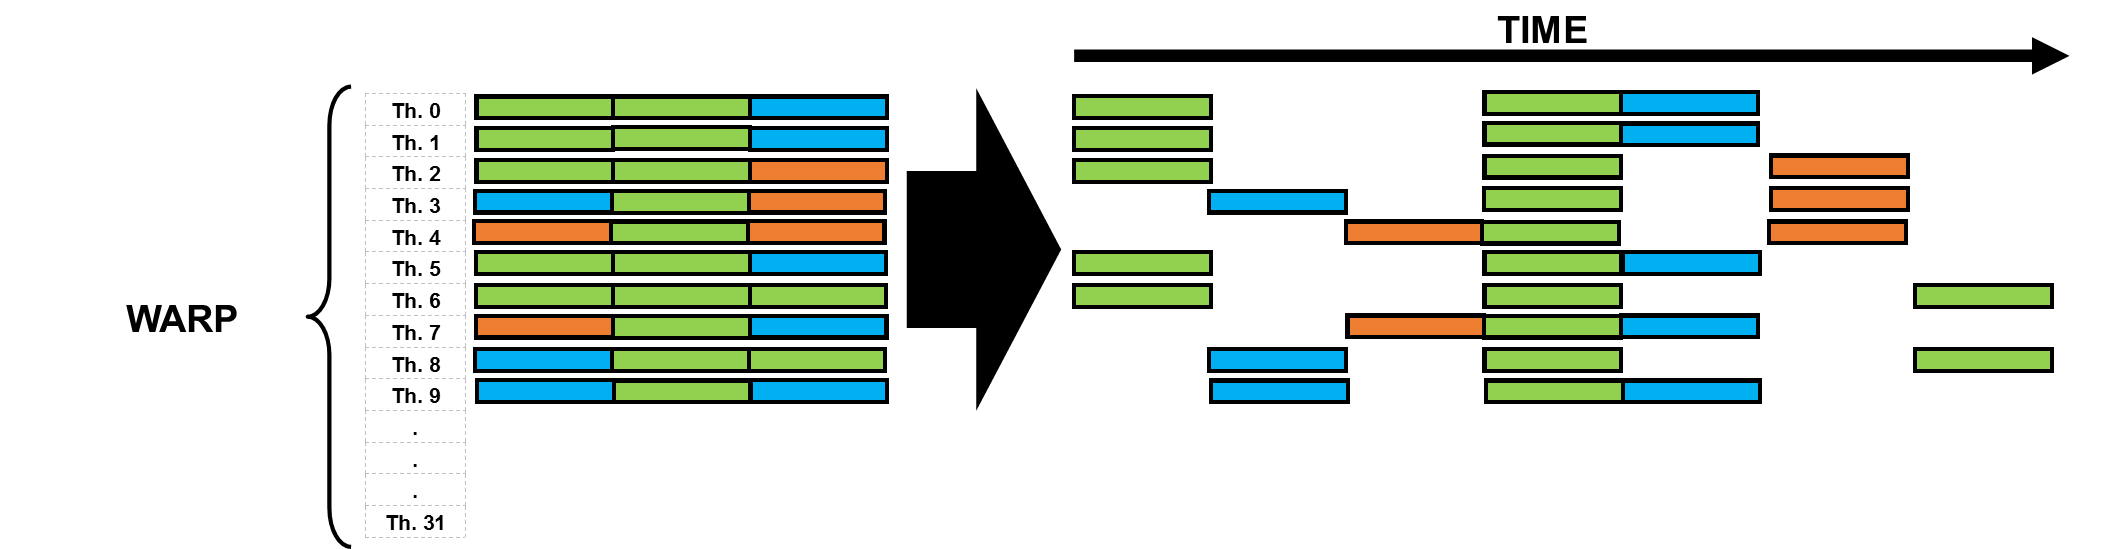
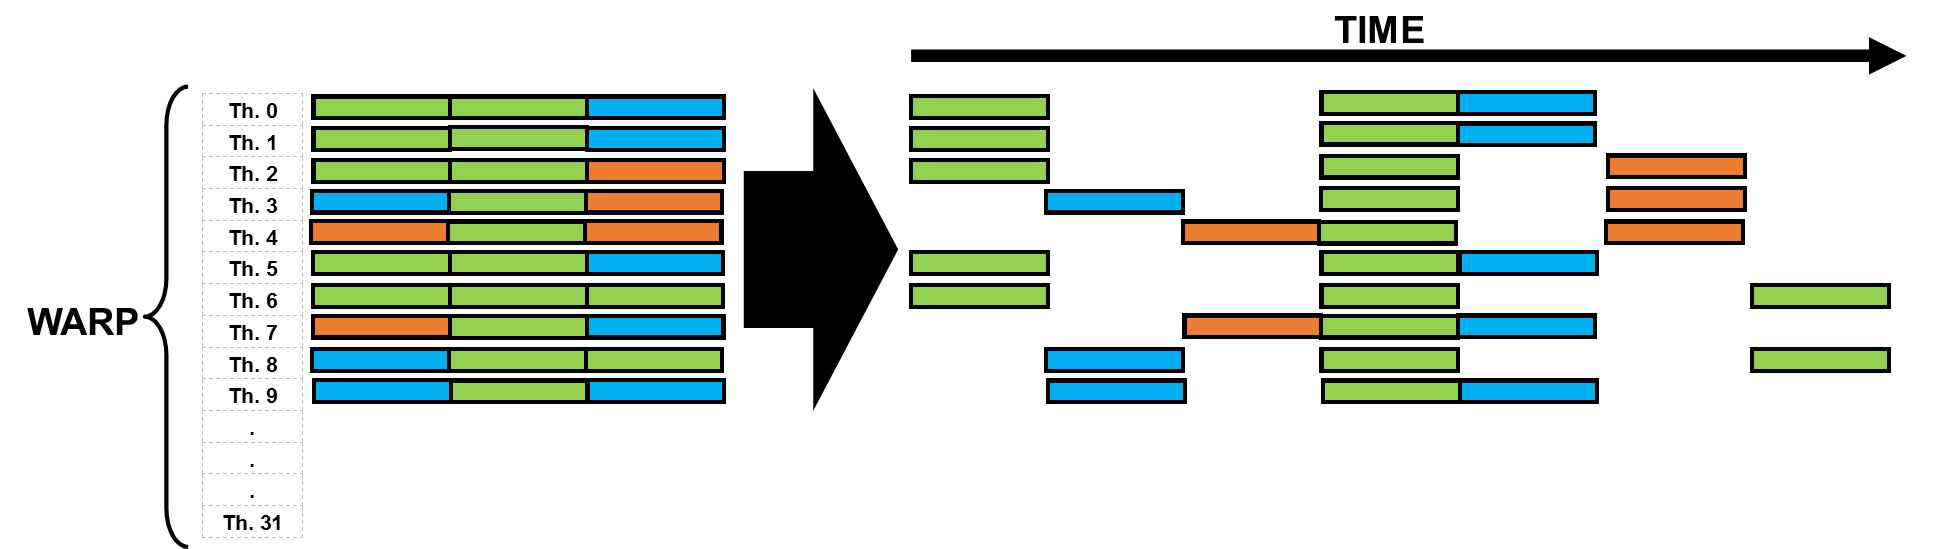
Implementation:GPU implementation - Hybrid Kernel - cluster distrib

diff --git a/Chapters/Implementation.tex b/Chapters/Implementation.tex
@@ -137,9 +137,12 @@ Cache optimization can be achieved dividing the array of sites in blocks that fi
 
 Besides, to perform some computational steps on a block, we need the sites surrounding the block to be present in the cache as well, otherwise the sites on the edge of the block will not be valid. This is because each site needs their four neighbours to complete a single time step evolution. As we try to perform more computational steps on a block, the amount of nodes external to the block increases. These nodes generate a \textit{halo} around a block that must also be read into the cache and updated, but that at later steps become invalid because their own halos are not present. The minimum value of the halo thickness for a single time step evolution is of four sites, since there are four computational steps that couple sites for each direction.
 
-In a non distributed version of the kernels a single CPU performs the time step evolutions as schematized in Fig.%figure scheme
-. The multiple step strategy, combined with the tunable block size that depends on the hardware's cache size, put the algorithm in the family of cache-aware stencil computations~\cite{kamil2006implicit}.
-
+In a non distributed version of the kernels a single CPU performs the time step evolutions as schematized in Fig.~\ref{fig:scheme-iteration}. Blocks of the array in the main memory, with their own halo, are written in the cache memory. A single time step evolution of the block is performed, writing the results back to the cache. The halo is discarded, while the block is written to the second buffer in the main memory (Fig.~\ref{fig:CPU-cache-optimization}). The multiple step strategy, combined with the tunable block size that depends on the hardware's cache size, put the algorithm in the family of cache-aware stencil computations~\cite{kamil2006implicit}.
+\begin{figure}
+   \centering
+   \includegraphics[width=10cm]{Figs/CPU-cache_optimization.png}
+   \caption{Scheme of the CPU cache optimization. A time step evolution is performed, writing blocks of the first array into the cache.} \label{fig:CPU-cache-optimization}
+\end{figure}
 
 %%%%%%%%%%%%%%%%%%%%%%%%%%%%%%%%%%%%%%%%%%%%%%%%%%%%%%%%%%%%%%%%%%%%%%%%%%%%%%%%%%%%%
 \section{GPU kernel}
@@ -159,26 +162,51 @@ GPUs adopt \textit{SIMT (single instruction, multiple thread)} architecture as p
 A warp executes one common instruction at a time, so full efficiency is realized when all 32 threads of a warp agree on their execution path. If threads of a warp diverge via a data-dependent conditional branch, the warp serially executes each branch path taken, disabling threads that are not on that path, and when all paths complete, the threads converge back to the same execution path (Fig.~\ref{fig:warp-instruction}). Branch divergence occurs only within a warp; different warps execute independently regardless of whether they are executing common or disjoint code paths. Consequently, avoiding threads in a warp to branch, the execution achieve better performance.
 \begin{figure}
    \centering
-   \includegraphics[width=13.5cm]{Figs/Warp_instruction.png}
-   \caption{Instance of a warp execusion. The left part of the graph illustrates the instructions to be performed by each thread. Each thread execute three instructions; instructions with the same color are identical. The right part of the graph illustrates how the instruction are executed within by the threads within a warp. Threads, that execute the same instruction, perform the instruction at the same time. Different instructions are performed on different times. In this example threads are not in the same execution path -- there are at least three different paths -- resulting in a inefficient time performance.} \label{fig:warp-instruction}
+   \includegraphics[width=14cm]{Figs/Warp_instruction.png}
+   \caption{Instance of a warp execution. The left part of the graph illustrates the instructions to be performed by each thread. Each thread execute three instructions; instructions with the same color are identical. The right part of the graph illustrates how the instructions are executed by the threads within a warp. Threads, that execute the same instruction, perform the instruction at the same time. Different instructions are performed on different times. In this example threads are not in the same execution path -- there are at least three different paths -- resulting in a inefficient time performance.} \label{fig:warp-instruction}
 \end{figure}
 
 GPU are easily programmed using \textit{CUDA C} an extension of high-level programming language C. CUDA C extends C by allowing the programmer to define C functions (kernels) that are executed N times in parallel by N different \textit{CUDA threads}. Each thread is associated to a 3-component vector, so that they are organized in a 3d structure. Groups of threads are collected in \textit{thread blocks}, whose size is dictated by the programmer. However, there is a limit to the number of threads per block, since all threads of a block are expected to reside on the same processor core and must share the limited memory resources of that core. Blocks are organized into a \textit{grid} of thread blocks, which can be one, two or three dimensional.
 
-GPU's memory is organized in a hierarchy, as it happen for the CPU (Fig.~\ref{fig:GPU-memory-hierarchy}). Closest to the processors there are fast and small registers, in which each thread store a private local memory space. On the next level in the hierarchy, there are \textit{shared memories}. Each thread block can access to a memory space stored on shared memories, which is visible to all the threads of the block. The last level consist in a global memory, accessible by all the threads.
+GPU's memory is organized in a hierarchy, as it happens for the CPU (Fig.~\ref{fig:GPU-memory-hierarchy}). Closest to the processors there are fast and small registers, in which each thread store a private local memory space. On the next level in the hierarchy, there are \textit{shared memories}. Each thread block can access to a memory space stored on shared memories, which is visible to all the threads of the block. The last level consist in the global memory, accessible by all the threads.
 \begin{figure}
    \centering
    \includegraphics[width=10cm]{Figs/GPU_memory_hierarchy.eps}
    \caption{GPU memory hierarchy.} \label{fig:GPU-memory-hierarchy}
 \end{figure}
 
-In the CUDA programming model, the GPU is regarded as a physically separate \textit{device} that operates as a coprocessor to the \textit{host} -- the CPU -- running the C program. This is the case when the kernel execute on a GPU, while the rest of the C program executes on a CPU. The host and the device maintain their own separate memory spaces. Therefore, host and device communicate to share data. In particular, the host can allocate and deallocate space on the device global memory, as well as transfer data between host main memory and device global memory.
+In the CUDA programming model, the GPU is regarded as a physically separate \textit{device} that operates as a coprocessor to the \textit{host} -- the CPU -- running the C program. This is the case when the kernel executes on a GPU, while the rest of the C program executes on a CPU. The host and the device maintain their own separate memory spaces. Therefore, host and device communicate to share data. In particular, the host can allocate and deallocate space on the device global memory, as well as transfer data between host main memory and device global memory.
+%write about heterogeneous programming?
 
 %%%%%%%%%%%%%%%%%%%%%%%%%%%%%%%%%%%%%%%%%%%%%%%%%%%%%%%%%%%%%%%%%%%%%%%%%%%%%%%%%%%%%
 \subsection{GPU implementation}
+The GPU kernel implements the same time step evolution as the CPU kernel (Fig.~\ref{fig:scheme-iteration}). In analogy with the CPU kernel, the  GPU kernel divides the array of sites in blocks, which are written in the shared memories of the multiprocessors, along with their own halo. This strategy benefits from the higher bandwidth of the shared memories, as it happens for the CPU cache. Double buffering is required for data dependency; two arrays in the global memory are allocated, one for reading and one for writing the results. Besides, blocks are executed in parallel, reducing the time of the execution. 
+
+The time step evolution is performed using half number of threads as there are sites in the shared memory. In particular, each thread executes a single coupling operation. Data are partitioned so that each thread process couples of neighbours sites. This is done by arranging the threads in a checkerboard pattern; each thread allocate in its local memory the element corresponding to its position in the checkerboard, keeping it during all the single time step evolution execution. Then, it updates the value of this element and the one in its neighbour in the shared memory, which is determined by the computational step that is currently executed. The single coupling operations are executed in parallel by the threads, but the computational steps may be processed in a serialized manner, due to data dependency. Thus, after each computational step there is a synchronization barrier. 
+%schematic fig
 
 %%%%%%%%%%%%%%%%%%%%%%%%%%%%%%%%%%%%%%%%%%%%%%%%%%%%%%%%%%%%%%%%%%%%%%%%%%%%%%%%%%%%%
 \section{Hybrid kernel}
+During the execution of the GPU kernel, the host's CPU is idle while waiting for the GPU to complete the calculations. This CPU time could be used to perform part of the evolution of the state. Furthermore, GPU have less memory than CPU, limiting the size of the quantum system for which the evolution is computed. A hybrid kernel that uses both CPU and GPU address these two issues.
+
+The algorithm calculates the maximum amount of the array sites that can be computed on the GPU. Then an internal area of the array site, with the appropriate size, is sent to the GPU to be calculated. Since CPU and GPU are in charge of evolving different area of the array sites, GPU requires an halo surrounding the internal area while the CPU needs the halo that correspond to the sites at the edge of the internal area. A single time step evolution is performed, using the CPU and GPU kernels described above for the corresponding areas. After that, the internal halos must be updated by performing a communication between CPU and GPU. The GPU receives the halo from the corresponding part of the mesh evolved by the CPU -- for the CPU is the other way around. 
+
+The kernel also uses a directive-driven parallelism to utilize the power of a multicore system, relying on OpenMP. In the CUDA programming model, each GPU is associated to a single host, which is a single CPU core, hence, in a system with multicore CPU and a single GPU, only one single CPU would be used. For this purpose, the CPU kernel is slightly adjust to use OpenMP, so that the blocks which divides the CPU mesh are processed in parallel using more than one CPU.
 
 %%%%%%%%%%%%%%%%%%%%%%%%%%%%%%%%%%%%%%%%%%%%%%%%%%%%%%%%%%%%%%%%%%%%%%%%%%%%%%%%%%%%%
-\section{Distributed version of the kernels}
+\section{Distributing the workload across a cluster}
+The code is designed to run also in a distributed multi-node system. The whole mesh is partitioned in blocks, called tiles. Each node processes a tile plus its halo. After a single time step evolution the halos between the tiles have to be sent across the nodes. The communication is implemented using MPI. Using a two-dimensional grid of nodes, a tile contains elements of halos belonging to a total of eight other tiles: left, right, top, and bottom neighbours, and also the four diagonal neighbours. To minimize the number of communication requests, a wave pattern is used in the communication: left and right neighbours receive the halo first. This halo has the height of the inner cells of the tile. Then the horizontal halos are sent to the top and bottom neighbours – the width is the full tile width. In this way the appropriate corner elements are propagated to the diagonal neighbours.
+
+The communication is performed asynchronously: each halo is sent at the same time. However, there is a communication barrier between the left-right and top-bottom halo exchange due to data dependency. To achieve better performance, the approach is to overlap communication and evolution as much as possible, evolving the halo first and starting the communication simultaneously to the evolution of the rest of the tile. 
+
+The CPU kernels evolve blocks of the tile at its edge, corresponding to the halos. Then the asynchronous left-right halo exchange and the evolution of the inner part of the tile initiates. Once finished the evolution of the inner part, there is the left-right halo exchange barrier. Consequently, the asynchronous top-bottom halo exchange starts and the top-bottom barrier ensure that it finish before swapping the buffers and continuing with the next time step. In this case, the halo exchange cannot be efficiently overlapped with computation, since, after the time step evolution is finished, there is a communication overhead while the vertical halos are exchanged.
+
+As regard the GPU kernel, the communication is performed from the host memory. This increases the complexity, as asynchronous memory copies from the device and to the device have to be performed. To work with such transfer efficiently, the kernel implements \textit{streams}. A GPU stream is basically a queue of tasks for the GPU to perform: kernel execution, and memory copies from and to the device. Tasks in two different streams can overlap with each other, while tasks on the same stream are performed sequentially. When the host queues a task into a GPU stream, it does not have to wait for the task to be completed by the GPU before continuing with the rest of the algorithm. Two streams are implemented in the kernel: queueing the halo computation and the memory copies between host and device in stream one, and the computation of the inner part of the tile in stream two.
+
+The host start queueing the evolution of the blocks at the edge of the tile, corresponding with the halo, and the halo copy from device to host in stream one. While the GPU is running the first stream, the host queues the evolution of the rest of the blocks in the second stream. Once the GPU finish the tasks in the first stream the halo can be exchanged between the nodes, using the wave pattern described above. With this approach, the communication of all halos is efficiently overlapped with the blocks calculation -- the task in the second stream. When the halo communication is completed, the host queues the copy of the halos received to the device memory in the first stream. Once the GPU finishes the tasks in each streams, the buffers in the global memories are swapped and the kernel starts over.
+
+We say that certain GPUs allow device-to-device transfer without involving the host memory, and some configurations also allow similar transfers between GPUs located in different hosts. We assumed that GPU-GPU communication would always involve the host memory.
+
+We use one process per GPU, and single-node execution with multiple GPUs is possible.
+
+The hybrid kernel uses only one stream to queue the tasks for the GPU. The host launch the GPU kernel for the corresponding sites on the internal area of the tile. After that the host -- CPU -- proceeds to calculate the halo and start the halo exchange. Once the halo exchange is initiated, the sites not in the halo and not on the GPU are evolved by the CPU. Finally, finished the halo exchange, it exchange the internal halo between the part of the tile associated with the GPU and the rest of the matrix.
